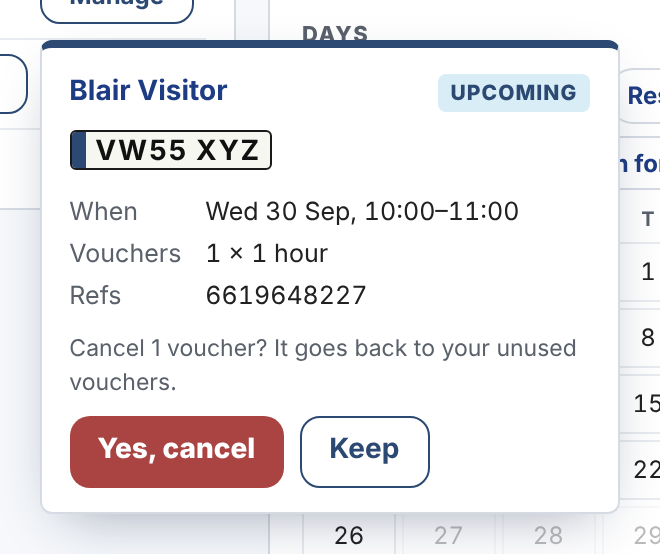
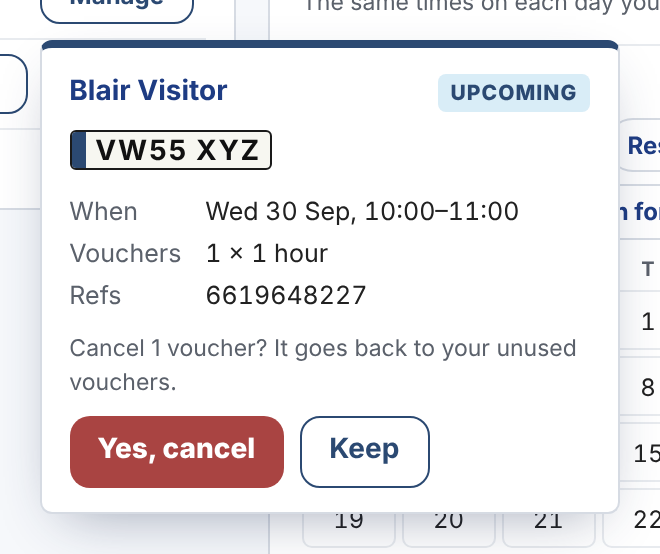
fix: keep the repeat note; drop the second sentence under the start-to-end calendar
Claude-Session: https://claude.ai/code/session_015JTfShffBEvdpiZUKNcpbT

diff --git a/extension/src/app.js b/extension/src/app.js
@@ -135,7 +135,7 @@
       <div class="quick" id="squick"></div>
       <div class="adj" id="sadj" hidden></div>
       <div class="mini" id="smini"></div>
-      <span class="note">Tap the first day, then the last. Vouchers cover only the controlled hours in between: nights, weekends and other times without controls need none.</span>
+      <span class="note">Tap the first day, then the last.</span>
     </div>
     <div class="c-sec repeat"><h4>Days <button id="clearD" type="button">Clear</button></h4><div class="quick" id="dquick"></div><div class="mini" id="mini"></div></div>
     <div class="c-sec repeat">
@@ -797,7 +797,7 @@
     function renderStay() {
       const on = isStay();
       $("#mRepeat").setAttribute("aria-checked", String(!on)); $("#mStay").setAttribute("aria-checked", String(on));
-      $("#modeNote").textContent = on ? "One booking from start to end." : ""; $("#modeNote").hidden = !on;
+      $("#modeNote").textContent = on ? "One booking from start to end." : "The same times on each day you pick.";
       $("#staySec").hidden = !on; $$(".c-sec.repeat").forEach((x) => (x.hidden = on));
       if (!on) return;
       const s = S.sel.stay || (S.sel.stay = stayFromRepeat()), idle = (id) => shadow.activeElement !== $(id);
